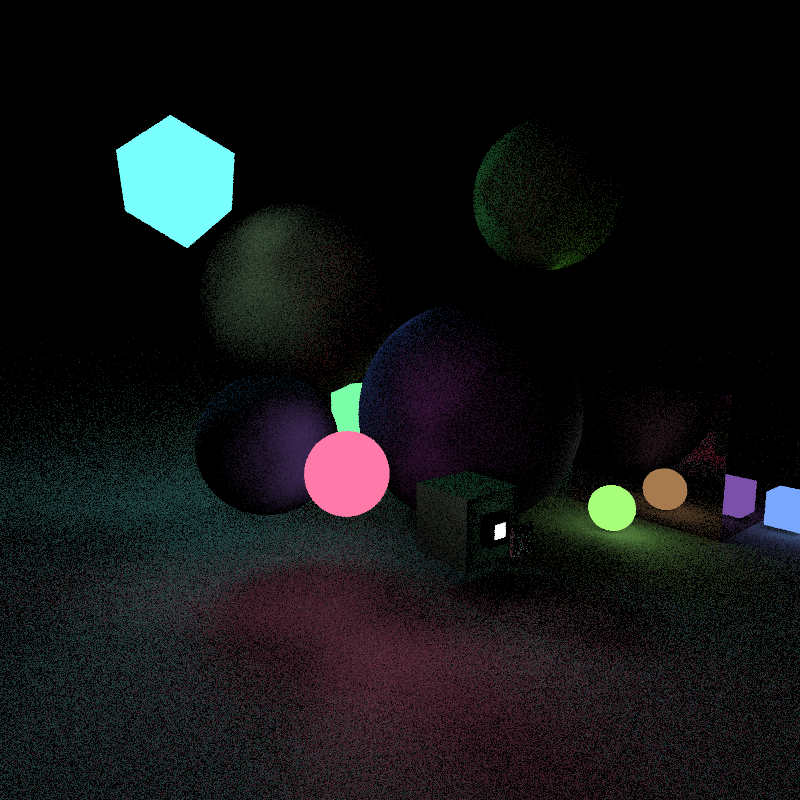
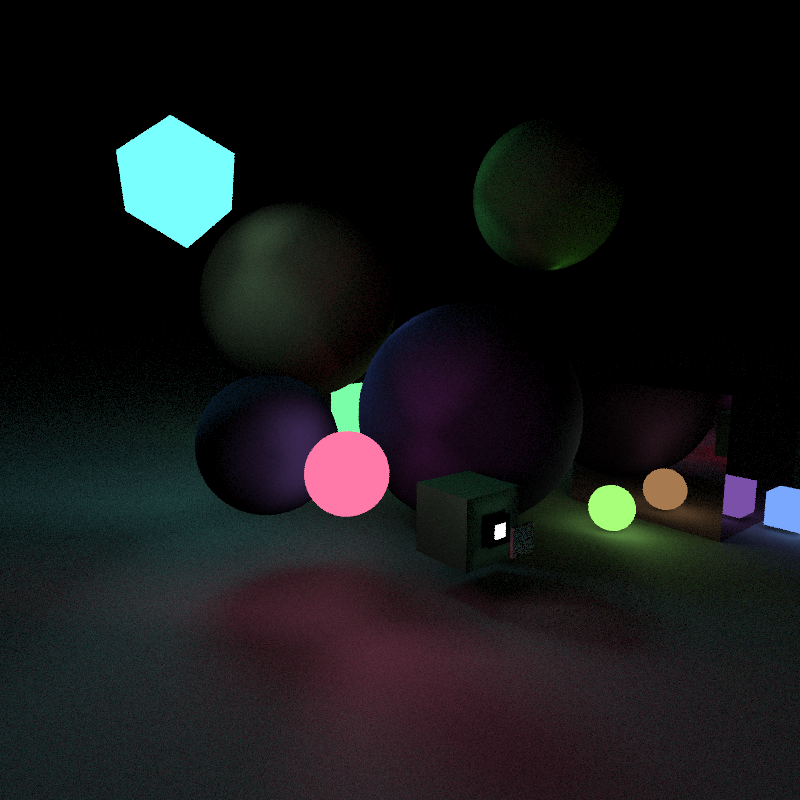
Increase max_illumination_rays for emissive scene

diff --git a/renders/renders.md b/renders/renders.md
@@ -40,7 +40,7 @@ _spp = samples per pixel_
 
 #### `scenes/emissive.json`
 
-800 x 800 pixels, 4 spp, 15 primitives, 31,854,022 rays, 3.111s on i7 8650U
+800 x 800 pixels, 4 spp, 15 primitives, 236,030,663 rays, 20.904s on i7 8650U
 
 ![emissive.json](./emissive.png)
 
